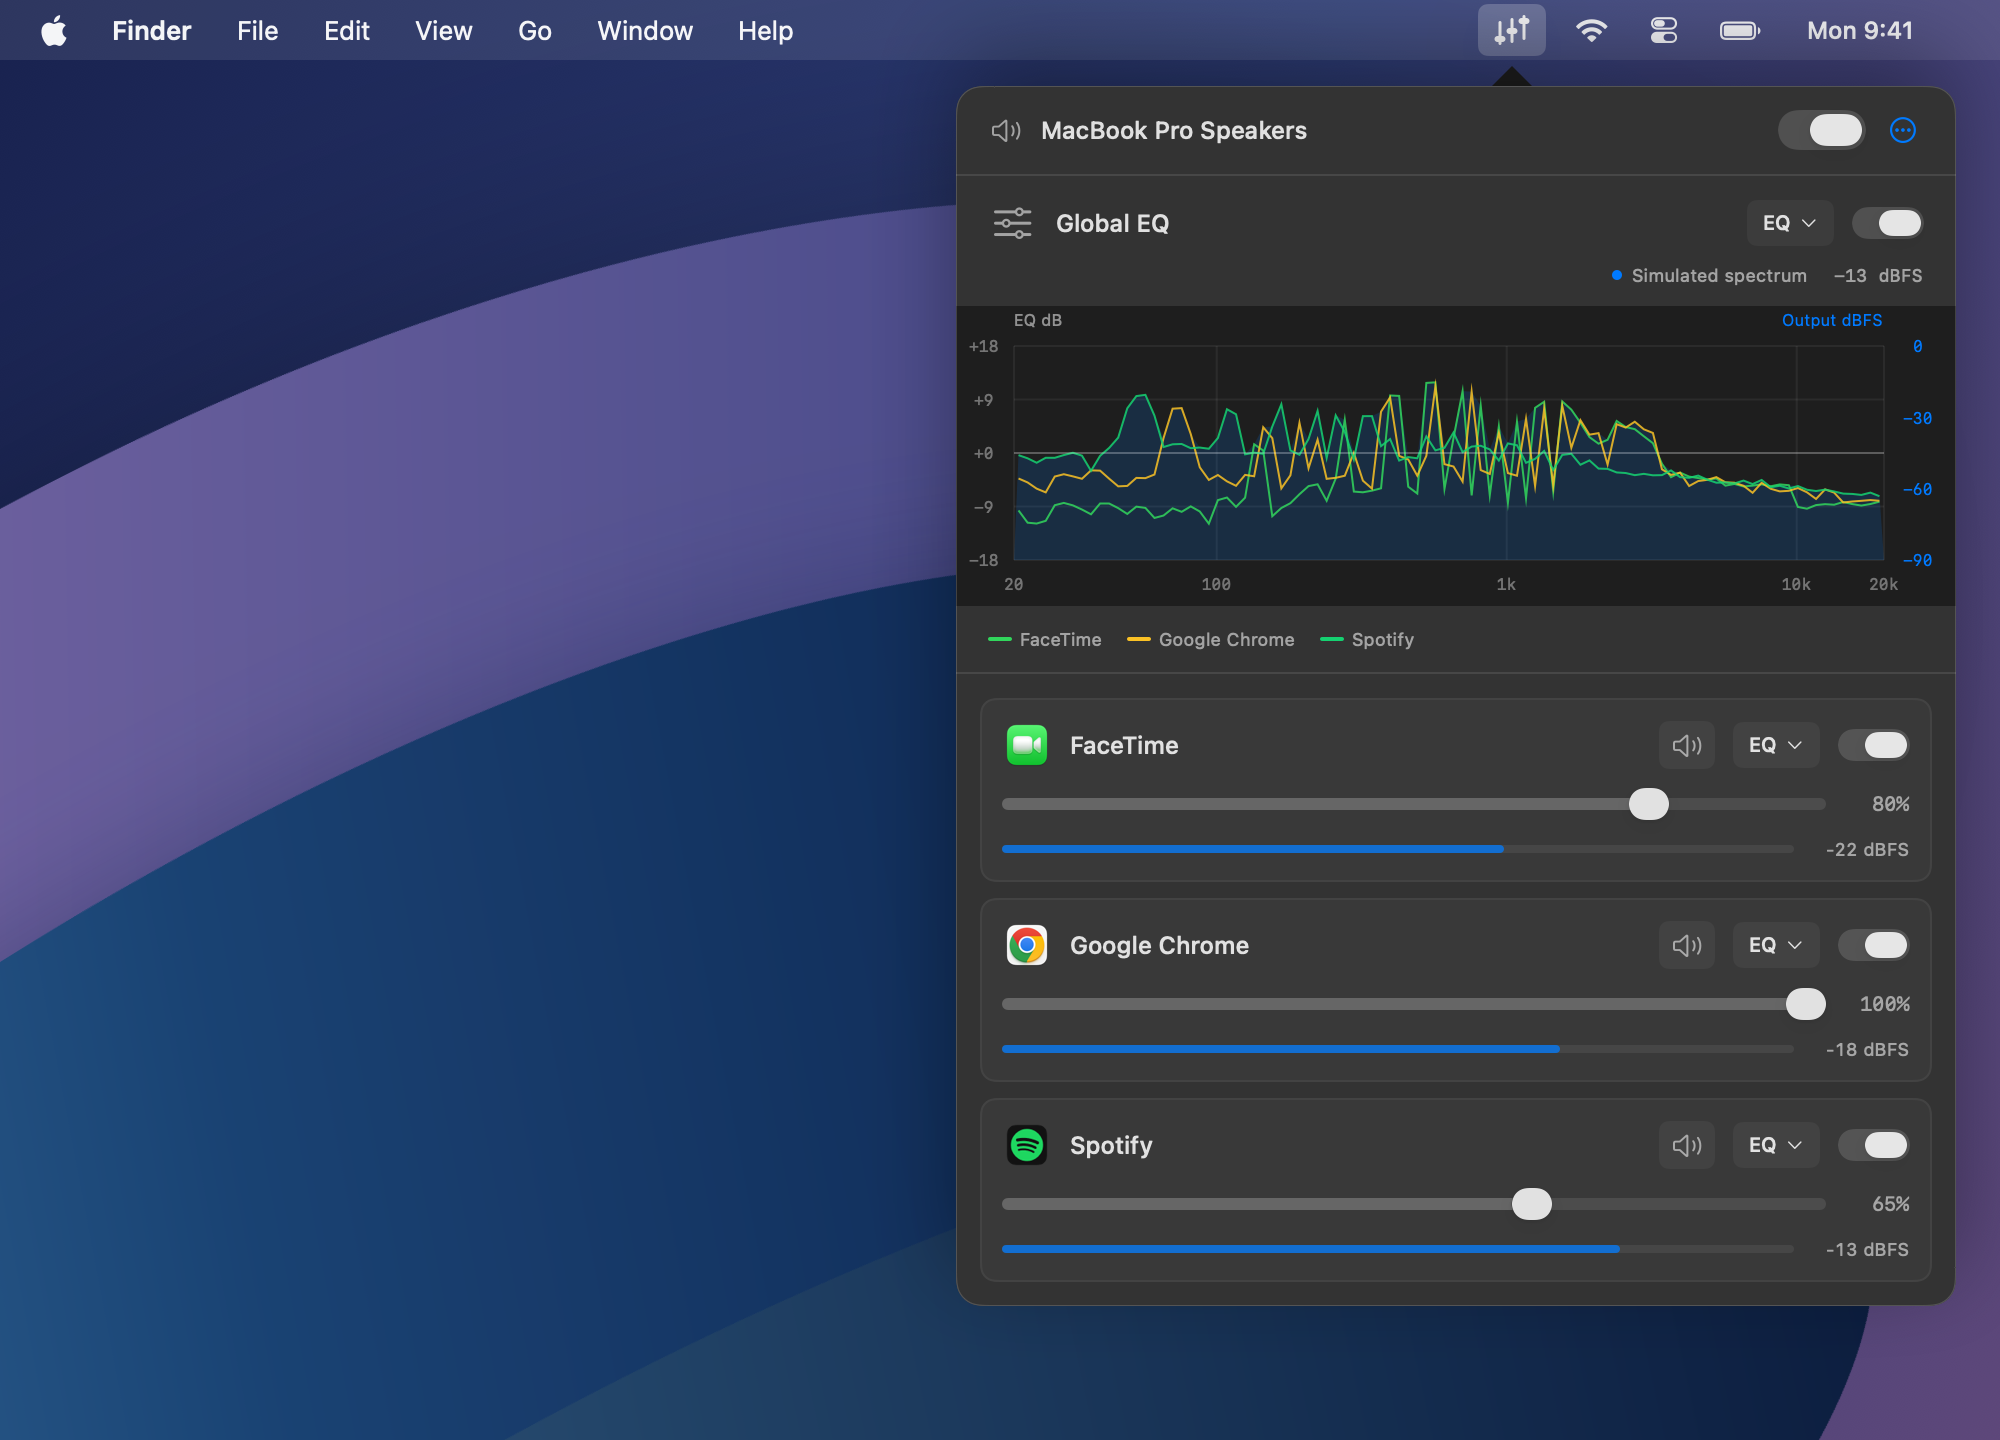
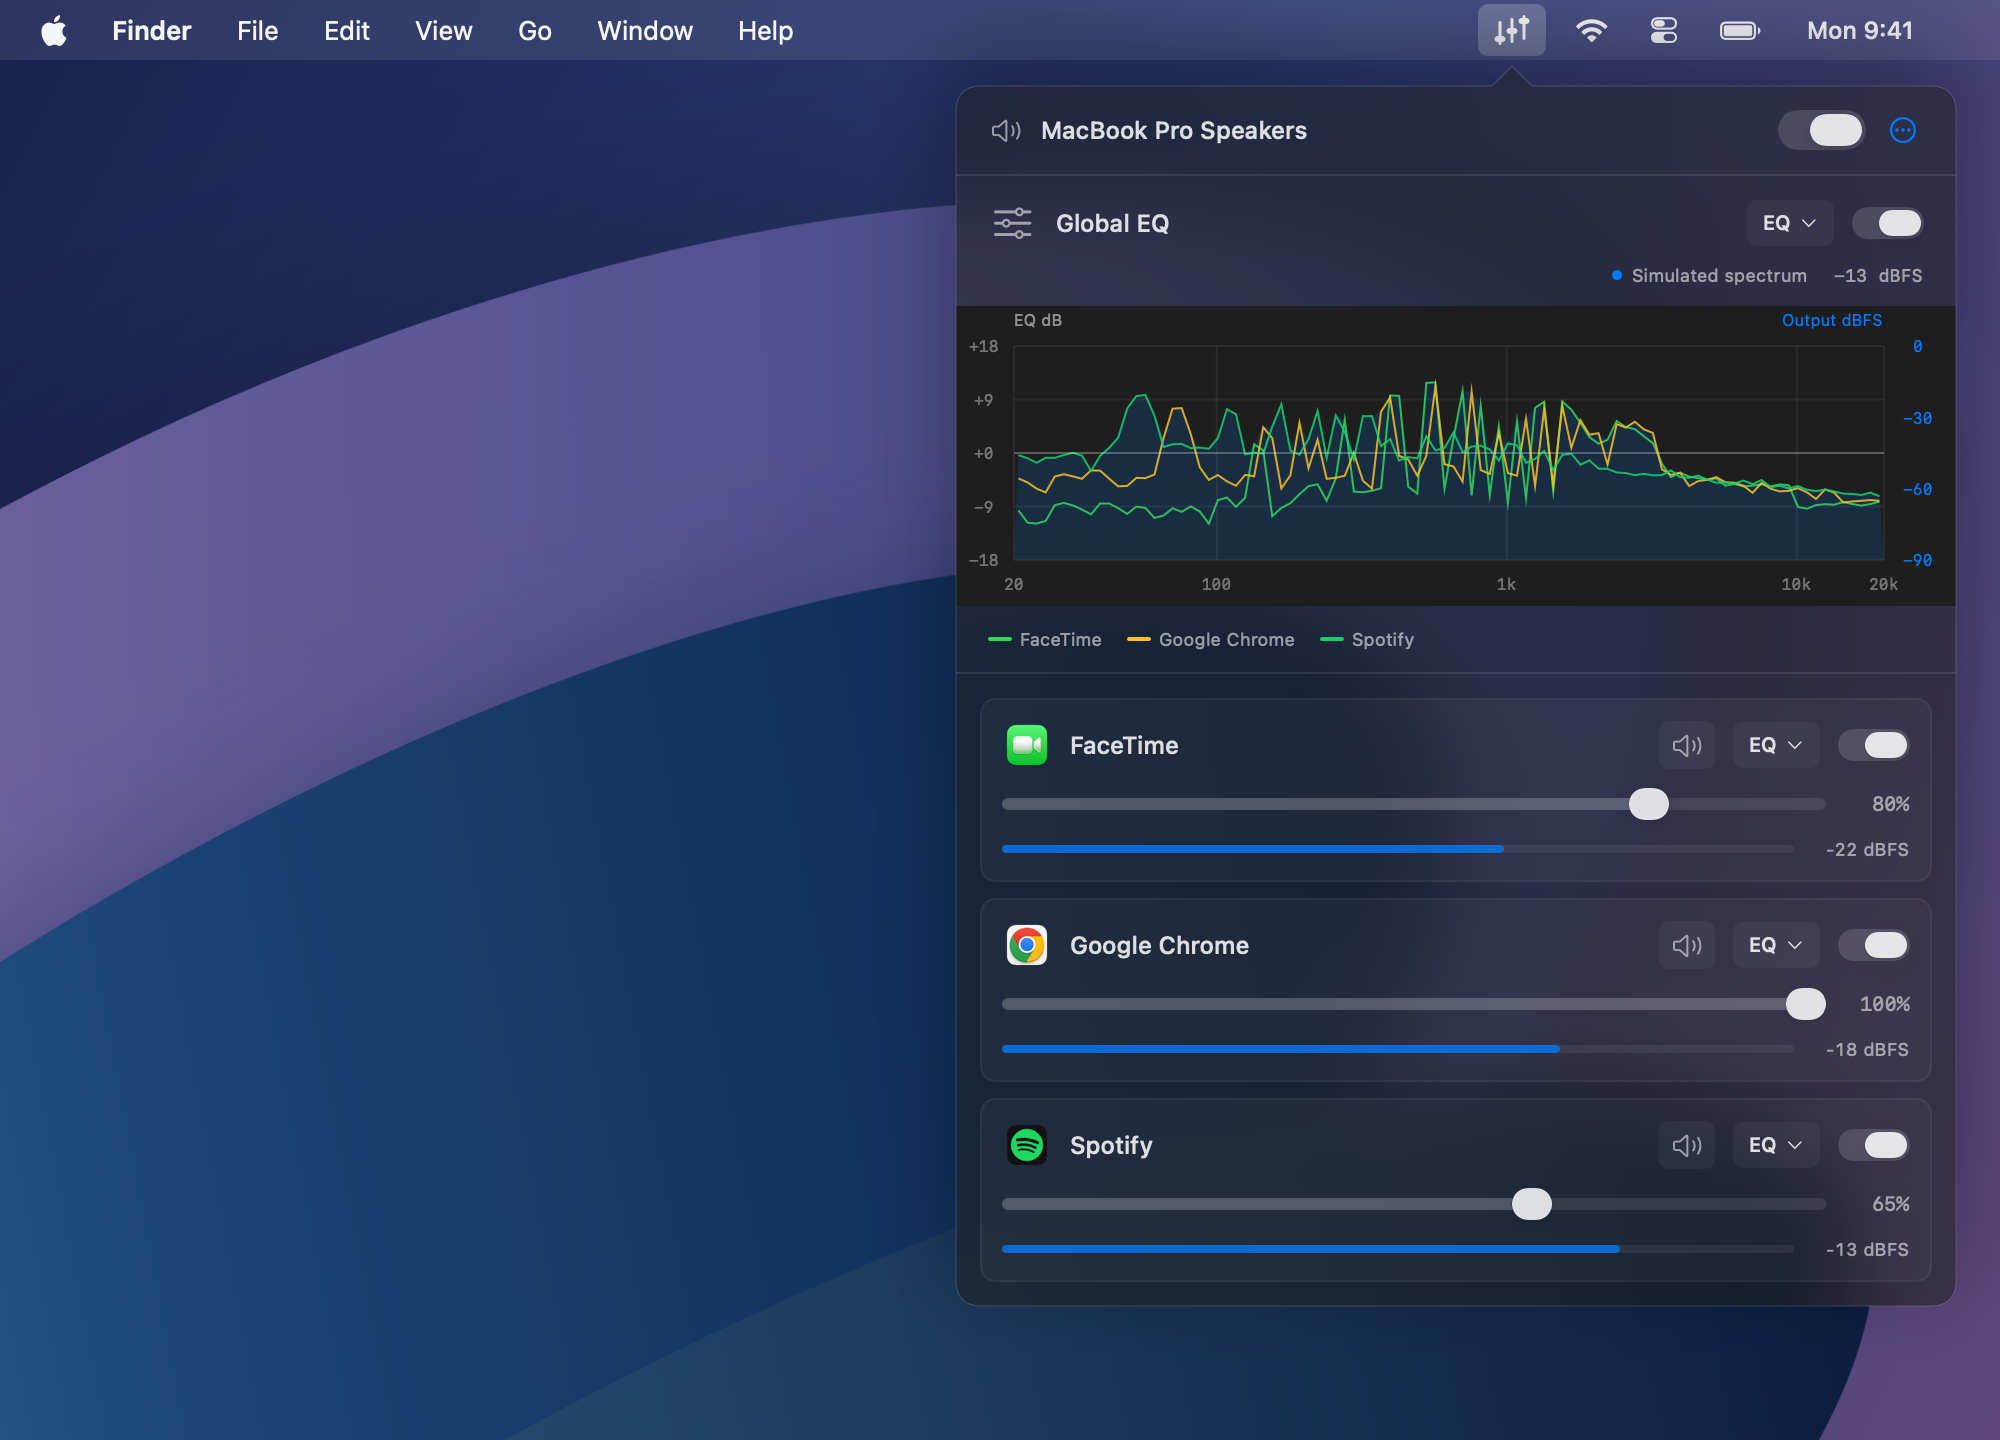
Show frosted translucency in README desktop previews

Changed region(s): [[0.465, 0.4062, 0.899, 0.9062], [0.465, 0.1562, 0.682, 0.2188], [0.744, 0.0312, 0.775, 0.0625]]

diff --git a/QEQ/App/Sources/DesktopScreenshot.swift b/QEQ/App/Sources/DesktopScreenshot.swift
@@ -1,4 +1,5 @@
 import AppKit
+import CoreImage
 import QuartzCore
 import SwiftUI
 
@@ -8,25 +9,33 @@ import SwiftUI
 struct DesktopScreenshot: View {
     @ObservedObject var model: MixerModel
     let panelHeight: CGFloat
+    var blurredWallpaper: NSImage? = nil
     private var canvasHeight: CGFloat { max(720, panelHeight + 80) }
+    private let panelOrigin = CGPoint(x: 478, y: 33)
 
     var body: some View {
         ZStack(alignment: .topLeading) {
             wallpaper
             menuBar
-            VStack(spacing: 0) {
-                Triangle().fill(Color(nsColor: .windowBackgroundColor))
-                    .frame(width: 20, height: 10)
-                    .frame(width: 500, alignment: .leading).padding(.leading, 268)
-                    .frame(width: 500, alignment: .leading).clipped()
-                MixerView(model: model)
-                    .background(Color(nsColor: .windowBackgroundColor))
-                    .clipShape(RoundedRectangle(cornerRadius: 13))
-                    .overlay(RoundedRectangle(cornerRadius: 13).strokeBorder(.white.opacity(0.16), lineWidth: 0.5))
-            }
-            .frame(width: 500, height: panelHeight + 10)
-            .shadow(color: .black.opacity(0.35), radius: 24, x: 0, y: 16)
-            .offset(x: 478, y: 33)
+            MixerView(model: model, drawsPanelBackground: false)
+                .padding(.top, 10)
+                .frame(width: 500, height: panelHeight + 10)
+                .background {
+                    // Bitmap capture cannot include WindowServer's behind-window
+                    // material. Blur the matching region of our own wallpaper,
+                    // then apply the live panel's tint. Spectrum fills stay opaque.
+                    if let blurredWallpaper {
+                        Image(nsImage: blurredWallpaper)
+                            .resizable().frame(width: 1000, height: canvasHeight)
+                            .offset(x: -panelOrigin.x, y: -panelOrigin.y)
+                            .frame(width: 500, height: panelHeight + 10, alignment: .topLeading)
+                            .overlay(Color(nsColor: .windowBackgroundColor).opacity(PanelBackground.tintOpacity))
+                    }
+                }
+                .clipShape(PopoverOutline())
+                .overlay(PopoverOutline().stroke(.white.opacity(0.16), lineWidth: 0.5))
+                .shadow(color: .black.opacity(0.35), radius: 24, x: 0, y: 16)
+                .offset(x: panelOrigin.x, y: panelOrigin.y)
         }
         .frame(width: 1000, height: canvasHeight)
         .clipped()
@@ -89,12 +98,28 @@ struct DesktopScreenshot: View {
         }.font(.system(size: 14)).foregroundStyle(.white.opacity(0.95)).frame(width: 1000, height: 30)
     }
 
-    private struct Triangle: Shape {
+    private struct PopoverOutline: Shape {
         func path(in rect: CGRect) -> Path {
             Path { path in
-                path.move(to: CGPoint(x: rect.midX, y: rect.minY))
-                path.addLine(to: CGPoint(x: rect.maxX, y: rect.maxY))
-                path.addLine(to: CGPoint(x: rect.minX, y: rect.maxY))
+                let arrowX: CGFloat = 278
+                let radius: CGFloat = 13
+                let top = rect.minY + 10
+                path.move(to: CGPoint(x: rect.minX + radius, y: top))
+                path.addLine(to: CGPoint(x: arrowX - 10, y: top))
+                path.addLine(to: CGPoint(x: arrowX, y: rect.minY))
+                path.addLine(to: CGPoint(x: arrowX + 10, y: top))
+                path.addLine(to: CGPoint(x: rect.maxX - radius, y: top))
+                path.addQuadCurve(
+                    to: CGPoint(x: rect.maxX, y: top + radius), control: CGPoint(x: rect.maxX, y: top))
+                path.addLine(to: CGPoint(x: rect.maxX, y: rect.maxY - radius))
+                path.addQuadCurve(
+                    to: CGPoint(x: rect.maxX - radius, y: rect.maxY), control: CGPoint(x: rect.maxX, y: rect.maxY))
+                path.addLine(to: CGPoint(x: rect.minX + radius, y: rect.maxY))
+                path.addQuadCurve(
+                    to: CGPoint(x: rect.minX, y: rect.maxY - radius), control: CGPoint(x: rect.minX, y: rect.maxY))
+                path.addLine(to: CGPoint(x: rect.minX, y: top + radius))
+                path.addQuadCurve(
+                    to: CGPoint(x: rect.minX + radius, y: top), control: CGPoint(x: rect.minX, y: top))
                 path.closeSubpath()
             }
         }
@@ -103,7 +128,7 @@ struct DesktopScreenshot: View {
     static func render(model: MixerModel, panelHeight: CGFloat, appearance: NSAppearance?, to path: URL) throws {
         let scene = DesktopScreenshot(model: model, panelHeight: panelHeight)
         let canvasHeight = scene.canvasHeight
-        let host = NSHostingController(rootView: scene)
+        let host = NSHostingController(rootView: AnyView(scene.wallpaper))
         let window = NSWindow(
             contentRect: NSRect(x: -10000, y: 0, width: 1000, height: canvasHeight), styleMask: .borderless,
             backing: .buffered,
@@ -112,20 +137,38 @@ struct DesktopScreenshot: View {
         window.contentViewController = host
         window.makeKeyAndOrderFront(nil)
         defer { window.orderOut(nil) }
-        for _ in 0..<16 {
-            RunLoop.current.run(until: Date().addingTimeInterval(0.035))
-            host.view.layoutSubtreeIfNeeded()
-            host.view.displayIfNeeded()
-            CATransaction.flush()
+        func capture() -> NSBitmapImageRep {
+            for _ in 0..<16 {
+                RunLoop.current.run(until: Date().addingTimeInterval(0.035))
+                host.view.layoutSubtreeIfNeeded()
+                host.view.displayIfNeeded()
+                CATransaction.flush()
+            }
+            let bitmap = NSBitmapImageRep(
+                bitmapDataPlanes: nil, pixelsWide: 2000, pixelsHigh: Int(canvasHeight * 2), bitsPerSample: 8,
+                samplesPerPixel: 4,
+                hasAlpha: true, isPlanar: false, colorSpaceName: .deviceRGB, bytesPerRow: 0, bitsPerPixel: 0)!
+            bitmap.size = NSSize(width: 1000, height: canvasHeight)
+            ScreenshotControls.prepare(in: host.view)
+            host.view.cacheDisplay(in: host.view.bounds, to: bitmap)
+            return bitmap
         }
-        let bitmap = NSBitmapImageRep(
-            bitmapDataPlanes: nil, pixelsWide: 2000, pixelsHigh: Int(canvasHeight * 2), bitsPerSample: 8,
-            samplesPerPixel: 4,
-            hasAlpha: true, isPlanar: false, colorSpaceName: .deviceRGB, bytesPerRow: 0, bitsPerPixel: 0)!
-        bitmap.size = NSSize(width: 1000, height: canvasHeight)
-        ScreenshotControls.prepare(in: host.view)
-        host.view.cacheDisplay(in: host.view.bounds, to: bitmap)
-        try bitmap.representation(using: .png, properties: [:])!.write(to: path)
+        // SwiftUI blur uses compositor filters that cacheDisplay also omits.
+        // Rasterize only our wallpaper and blur its pixels explicitly at 2×.
+        let wallpaperImage = CIImage(bitmapImageRep: capture())!
+        let blurred = wallpaperImage.clampedToExtent()
+            .applyingFilter("CIGaussianBlur", parameters: [kCIInputRadiusKey: 40])
+            .cropped(to: wallpaperImage.extent)
+        guard let cgImage = CIContext().createCGImage(blurred, from: wallpaperImage.extent) else {
+            throw NSError(
+                domain: "QEQ screenshots", code: 4,
+                userInfo: [NSLocalizedDescriptionKey: "Could not render the blurred desktop backdrop."])
+        }
+        host.rootView = AnyView(
+            DesktopScreenshot(
+                model: model, panelHeight: panelHeight,
+                blurredWallpaper: NSImage(cgImage: cgImage, size: NSSize(width: 1000, height: canvasHeight))))
+        try capture().representation(using: .png, properties: [:])!.write(to: path)
         print("Desktop preview: \(path.lastPathComponent)")
     }
 }

diff --git a/QEQ/App/Sources/MixerView.swift b/QEQ/App/Sources/MixerView.swift
@@ -6,6 +6,8 @@ import SwiftUI
 struct MixerView: View {
     @ObservedObject var model: MixerModel
     var updates: UpdateStore? = nil
+    // Desktop documentation supplies a composited backdrop; live panels use AppKit.
+    var drawsPanelBackground = true
     @Environment(\.accessibilityReduceMotion) private var reduceMotion
     @State private var globalBand = 0
     @State private var measured: [String: CGFloat] = [:]
@@ -79,7 +81,9 @@ struct MixerView: View {
             }.frame(maxHeight: .infinity)
 
         }.frame(width: 500, height: panelHeight, alignment: .top).clipped().tint(.accentColor)
-            .background(PanelBackground().allowsHitTesting(false))
+            .background {
+                if drawsPanelBackground { PanelBackground().allowsHitTesting(false) }
+            }
             .onPreferenceChange(PanelHeights.self) { heights in
                 guard measured != heights else { return }
                 // Geometry feeds the viewport size: never interpolate these

diff --git a/QEQ/App/Sources/PanelBackground.swift b/QEQ/App/Sources/PanelBackground.swift
@@ -5,6 +5,8 @@ import SwiftUI
 /// Keep the material and tint together, independent of SwiftUI content updates
 /// and the popover becoming key. Only a system appearance change alters the tint.
 struct PanelBackground: NSViewRepresentable {
+    static let tintOpacity = 0.55
+
     func makeNSView(context: Context) -> NSVisualEffectView {
         let material = NSVisualEffectView()
         material.material = .popover
@@ -48,7 +50,10 @@ private final class PanelTintView: NSView {
         effectiveAppearance.performAsCurrentDrawingAppearance {
             CATransaction.begin()
             CATransaction.setDisableActions(true)
-            layer?.backgroundColor = NSColor.windowBackgroundColor.withAlphaComponent(0.55).cgColor
+            layer?.backgroundColor =
+                NSColor.windowBackgroundColor.withAlphaComponent(
+                    PanelBackground.tintOpacity
+                ).cgColor
             CATransaction.commit()
         }
     }

diff --git a/QEQ/App/Sources/ScreenshotRenderer.swift b/QEQ/App/Sources/ScreenshotRenderer.swift
@@ -13,9 +13,9 @@ struct ScreenshotRenderer {
         let model = MixerModel(preview: true)
         model.snapshot.outputName = "MacBook Pro Speakers"
         model.snapshot.timing = "256 frames · 5.3 ms I/O buffer · 48 kHz"
-        // A view-only bitmap has no window-server backdrop. Supply an opaque
-        // appearance-matched backing for documentation captures; the live app
-        // leaves this clear and uses NSPopover's native visual-effect material.
+        // Standalone crops have no desktop backdrop, so supply an opaque backing.
+        // DesktopScreenshot separately composites its illustrated wallpaper to
+        // approximate the live panel's behind-window translucency.
         let host = NSHostingController(
             rootView: MixerView(model: model).background(Color(nsColor: .windowBackgroundColor)).environment(
                 \.controlActiveState, .active

diff --git a/QEQ/App/Sources/ScreenshotControls.swift b/QEQ/App/Sources/ScreenshotControls.swift
@@ -29,10 +29,12 @@ enum ScreenshotControls {
             field.drawsBackground = false
             field.backgroundColor = .textBackgroundColor
             field.wantsLayer = true
-            field.layer?.backgroundColor = NSColor.textBackgroundColor.cgColor
             field.layer?.cornerRadius = 5
             field.layer?.borderWidth = 0.5
-            field.layer?.borderColor = NSColor.separatorColor.cgColor
+            field.effectiveAppearance.performAsCurrentDrawingAppearance {
+                field.layer?.backgroundColor = NSColor.textBackgroundColor.cgColor
+                field.layer?.borderColor = NSColor.separatorColor.cgColor
+            }
             field.layer?.masksToBounds = true
         }
         for child in view.subviews { prepare(in: child) }

diff --git a/docs/DEVELOPMENT.md b/docs/DEVELOPMENT.md
@@ -123,7 +123,7 @@ python3 QEQ/scripts/screenshots.py --check
 
 The screenshot command renders the real SwiftUI views with labeled fixture settings in an offscreen app window. It never starts the audio engine, reads saved settings, or captures the screen. It also checks empty, populated, app/global EQ, long-list, smaller-screen and removal layouts. The source and image fingerprints in `docs/media/screenshots.json` prevent stale README screenshots from shipping. CI renders from its just-built app using `--skip-build`; normal preparation builds first. Screenshot fixtures use deterministic synthesized PCM (music harmonics, voiced speech, and noise), measured with a Hann-windowed FFT and labeled as simulated. The displayed EQ and volume are applied to those spectra; no live audio is captured.
 
-The same command produces `desktop-mixer.png` and `desktop-app-equalizer.png` for the README: the actual app UI on an illustrated desktop with a mock menu bar and QEQ’s menu bar icon. Both render at 2000 pixels wide; the desktop height grows to fit the panel without cropping. The primary README image expands FaceTime’s EQ with a bass cut while Chrome and Spotify stay collapsed. `DesktopScreenshot.swift` owns the composition, `ScreenshotAudio.swift` generates the audio fixtures, and `ScreenshotControls.swift` supplies clean field borders for offscreen capture only. These images are included in the source/checksum manifest and existing CI/release screenshot artifacts.
+The same command produces `desktop-mixer.png` and `desktop-app-equalizer.png` for the README: the actual app UI on an illustrated desktop with a mock menu bar and QEQ’s menu bar icon. The panel composites a blurred, spatially aligned copy of that illustrated wallpaper beneath the real UI, using the live app's shared 55% window-color tint; spectrum plots remain opaque. This approximates native translucency because offscreen bitmap rendering cannot capture WindowServer's behind-window material. The arrow and panel share one continuous backdrop. Both render at 2000 pixels wide; the desktop height grows to fit the panel without cropping. The primary README image expands FaceTime’s EQ with a bass cut while Chrome and Spotify stay collapsed. `DesktopScreenshot.swift` owns the composition, `ScreenshotAudio.swift` generates the audio fixtures, and `ScreenshotControls.swift` supplies clean field borders for offscreen capture only. These images are included in the source/checksum manifest and existing CI/release screenshot artifacts.
 
 The icon was created with the built-in image-generation tool. The source asset and final prompt are in `QEQ/Branding/`. The generator script only creates the standard macOS icon sizes from that source. The package, modules, targets, and scripts use QEQ. The legacy `local.AppMixer` bundle identity is retained so existing settings and permission identity remain available. The menu bar uses a native template drawing of the three staggered slider rails and knobs, without the app icon’s panels or outer border.
 
